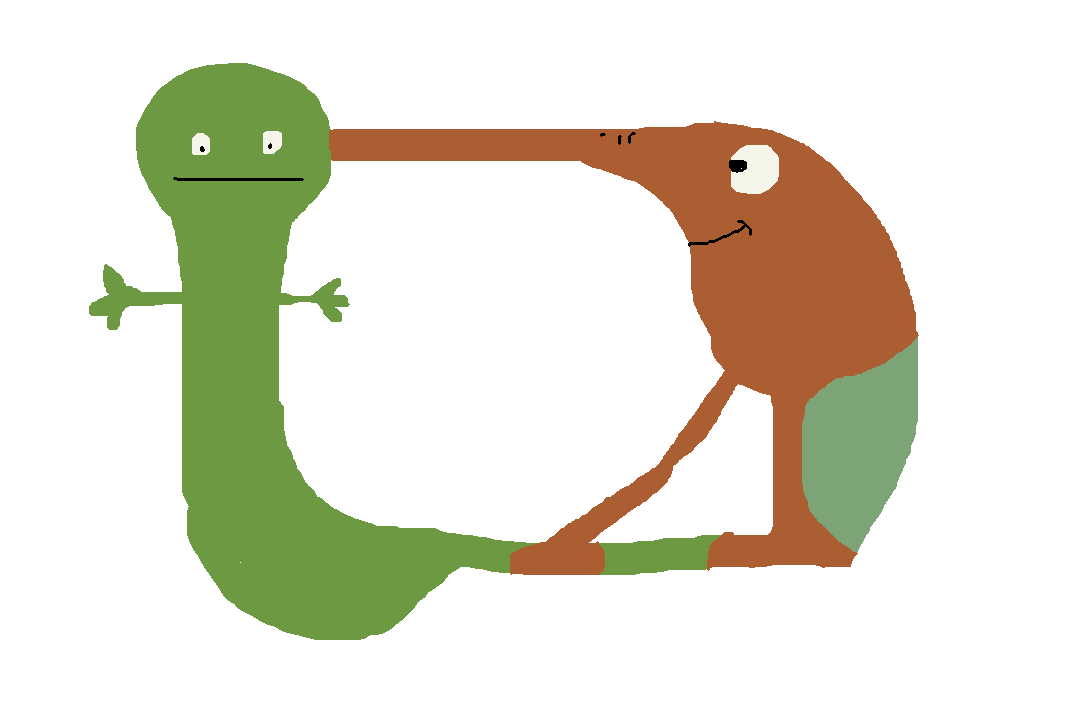
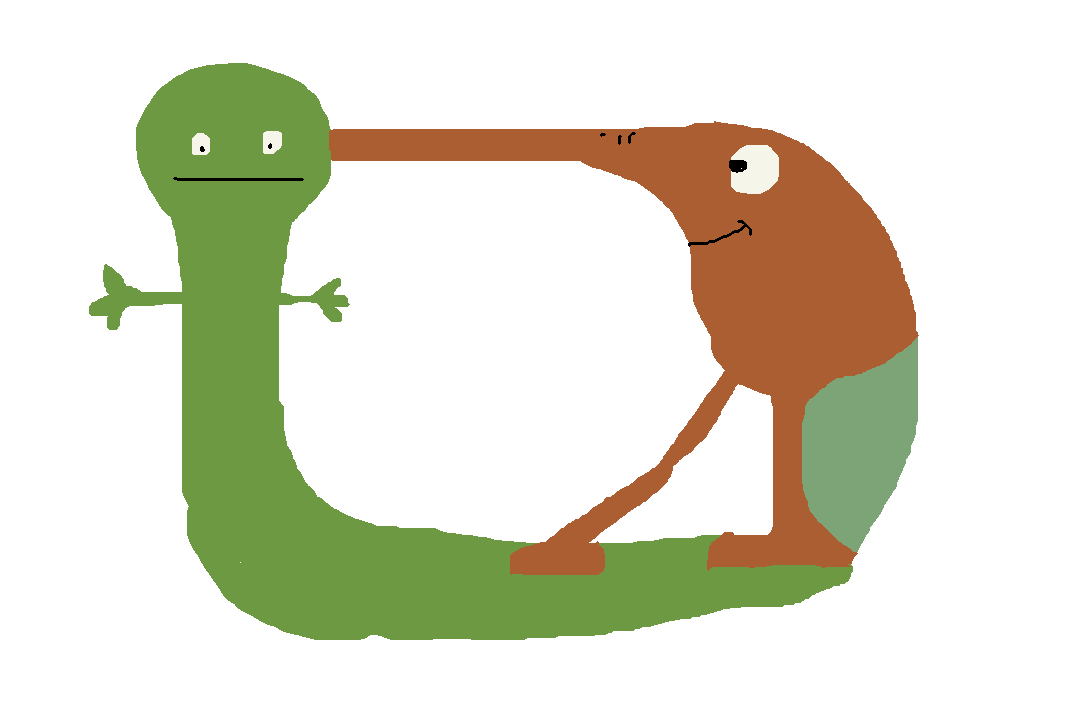
small changes for imroved playability
You now start with 4 carrots instead of 3, one track had one of its paths thickend

Changed region(s): [[0.3361, 0.7639, 0.7944, 0.8861]]

diff --git a/Assets/Scripts/GameControl.cs b/Assets/Scripts/GameControl.cs
@@ -107,7 +107,7 @@ public class GameControl : MonoBehaviour
         }
         else
         {
-            PlayerData.numberCarrotsAllowed = 3;
+            PlayerData.numberCarrotsAllowed = 4;
             PlayerData.numberCatsAllowed = 3;
         }
     }
@@ -177,6 +177,10 @@ public class GameControl : MonoBehaviour
             file.Close();
             Progress = GameProgress.FromSerialized(data);
         }
+        else
+        {
+            Progress = new GameProgress();
+        }
     }
 
     public void SaveProgress()
@@ -196,8 +200,8 @@ public class GameControl : MonoBehaviour
     {
         var files = new[]
         {
-            userDataPath + "/Progress.dat", userDataPath + "/ShopData.dat", userDataPath + "/PlayerData.dat",
-            userDataPath + "/Inventory.dat"
+            userDataPath + "/Progress.dat", userDataPath + "/ShopData.dat",
+            userDataPath + "/PlayerData.dat", userDataPath + "/Inventory.dat"
         };
 
         foreach (var fileName in files)
@@ -211,7 +215,7 @@ public class GameControl : MonoBehaviour
         LoadShopData();
     }
 
-    public static bool HasNoSaveDate()
+    public static bool HasNoSaveData()
     {
         if (File.Exists(userDataPath + "/Inventory.dat")) return false;
         if (!Control.Progress.HasClearedAnything()) return false;

diff --git a/Assets/Scripts/Tutorial/Intro.cs b/Assets/Scripts/Tutorial/Intro.cs
@@ -23,6 +23,7 @@ public class Intro : MonoBehaviour
 	private void Start ()
 	{
 		GameControl.Control.LoadInventory();
+		GameControl.Control.LoadProgress();
 		if (GameControl.Control.Inventory.HasAHamster())
 		{
 			var progress = GameControl.Control.Progress;

diff --git a/Assets/Scripts/OnCliickThingy.cs b/Assets/Scripts/OnCliickThingy.cs
@@ -1,6 +1,4 @@
-using System.Collections;
-using System.Collections.Generic;
-using UnityEngine;
+using UnityEngine;
 using UnityEngine.Events;
 
 public class OnCliickThingy : MonoBehaviour {

diff --git a/Assets/Scripts/NewGame.cs b/Assets/Scripts/NewGame.cs
@@ -11,7 +11,7 @@ public class NewGame : MonoBehaviour
 
 	private void Start ()
 	{
-		if (GameControl.HasNoSaveDate())
+		if (GameControl.HasNoSaveData())
 		{
 			Destroy(gameObject);
 		}
